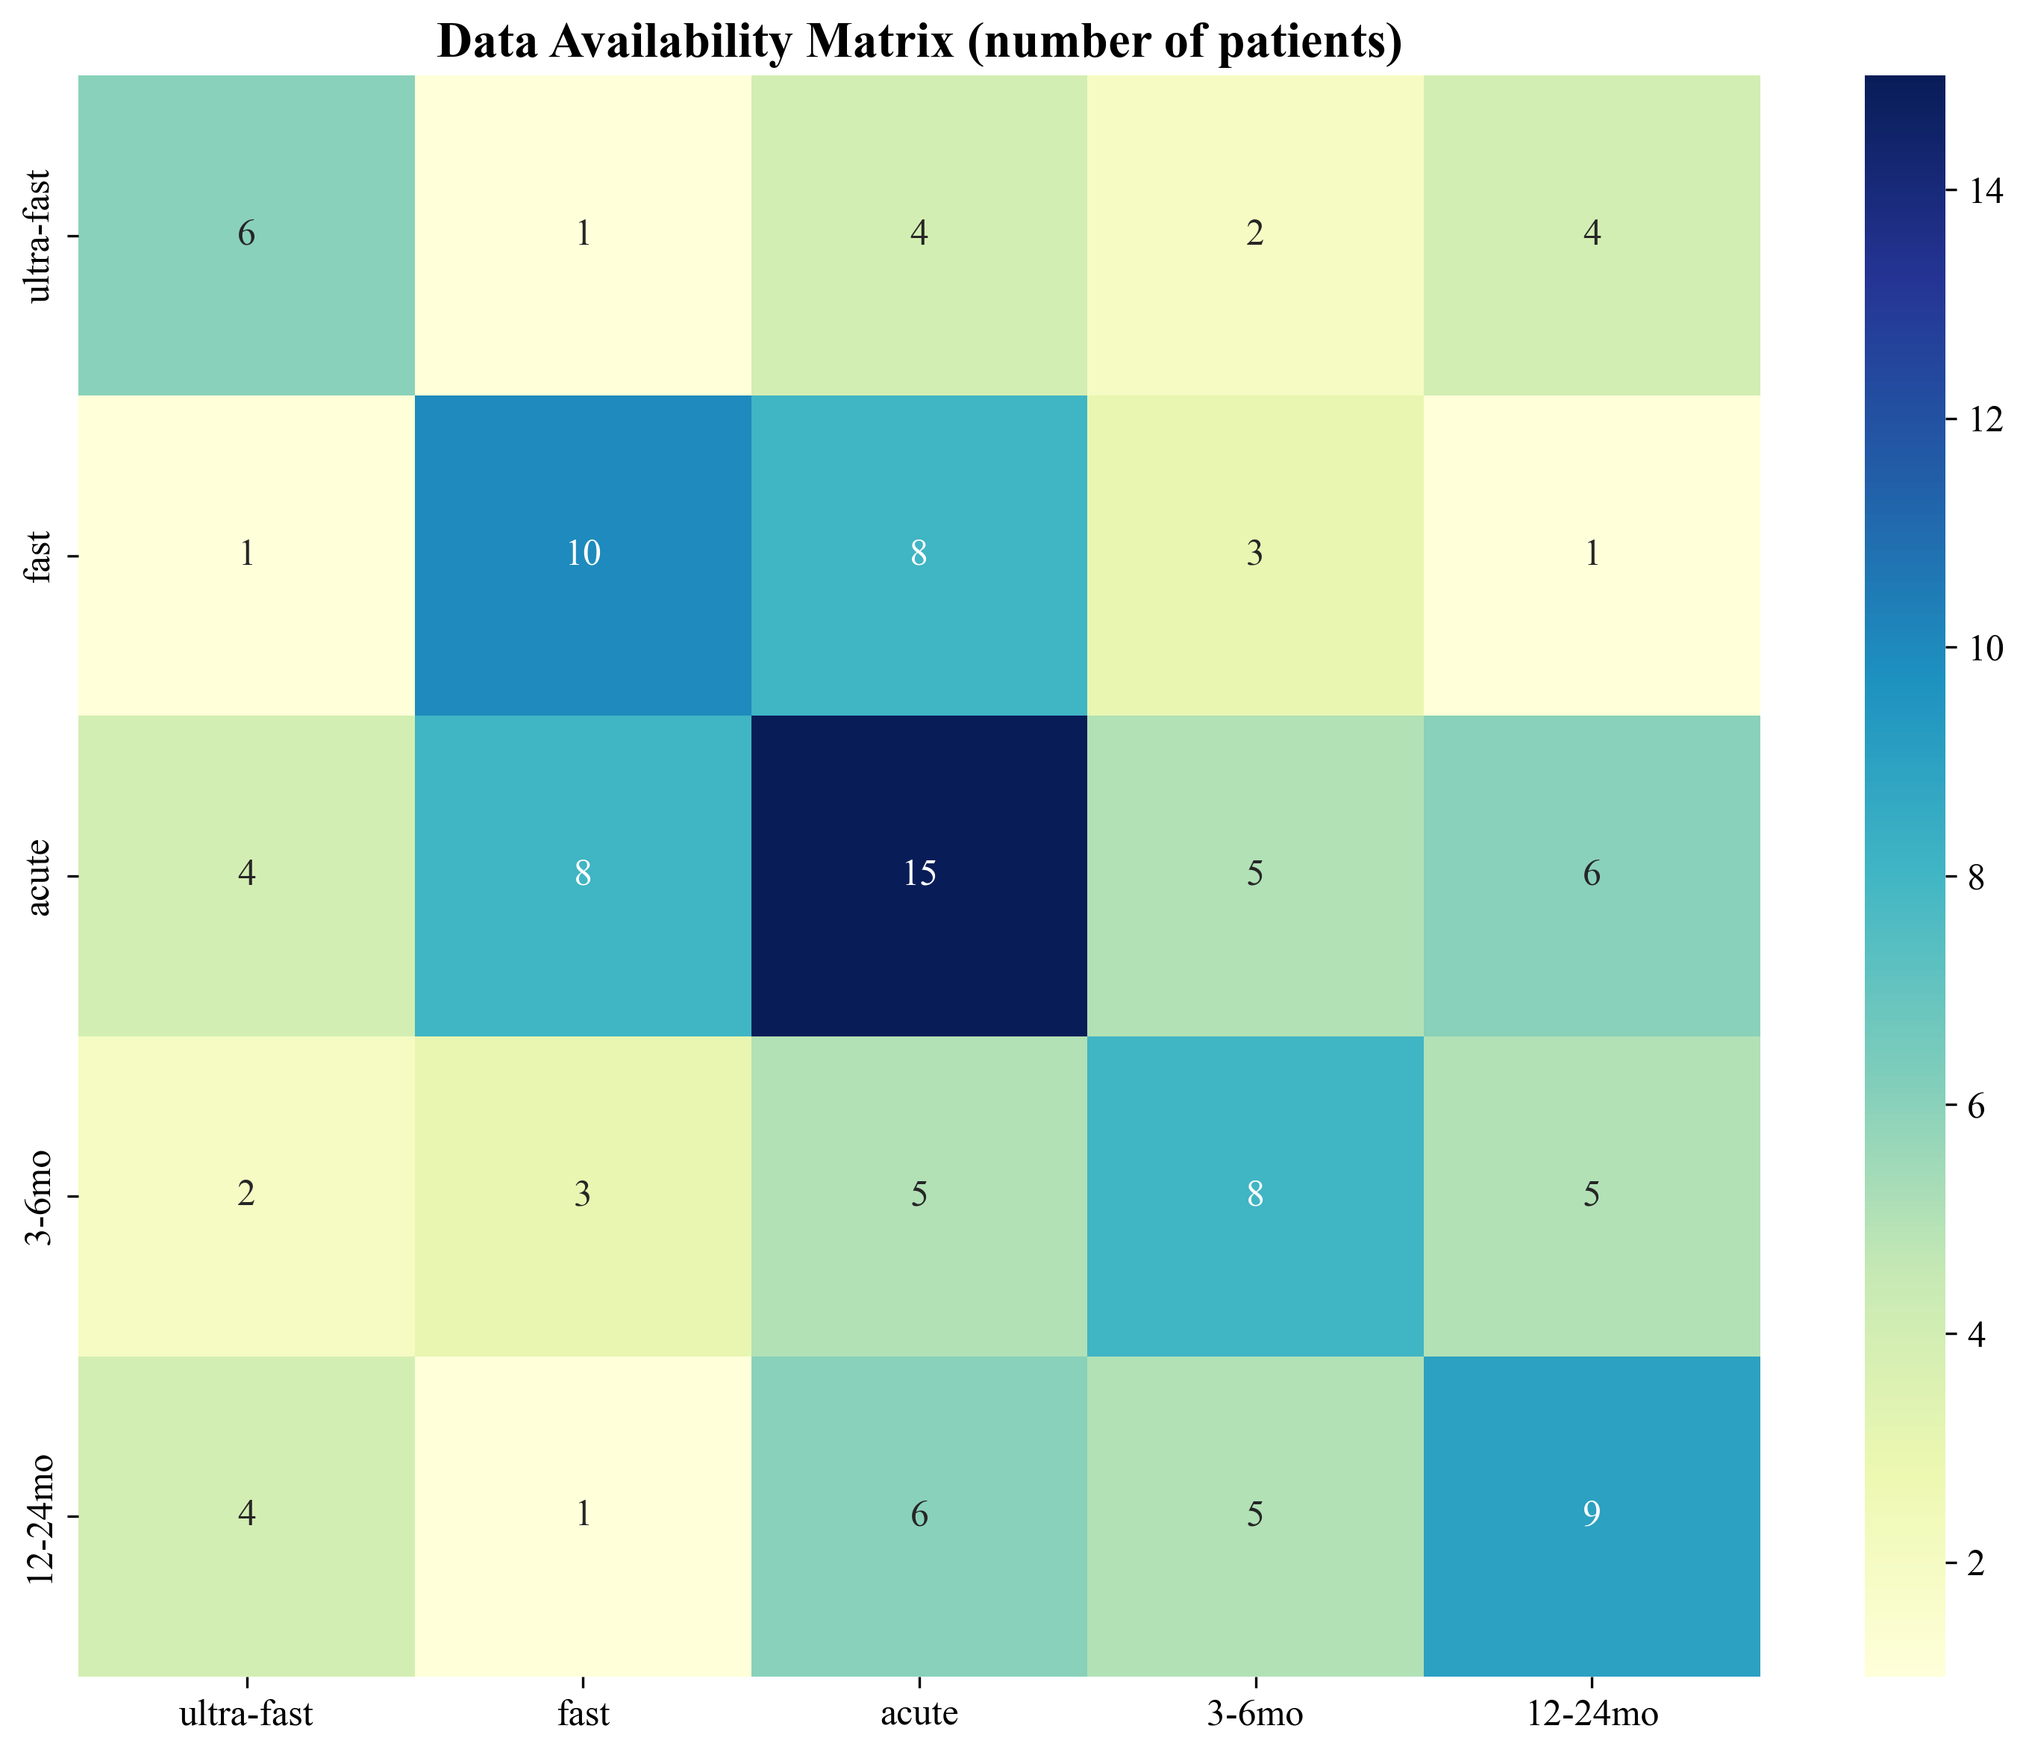
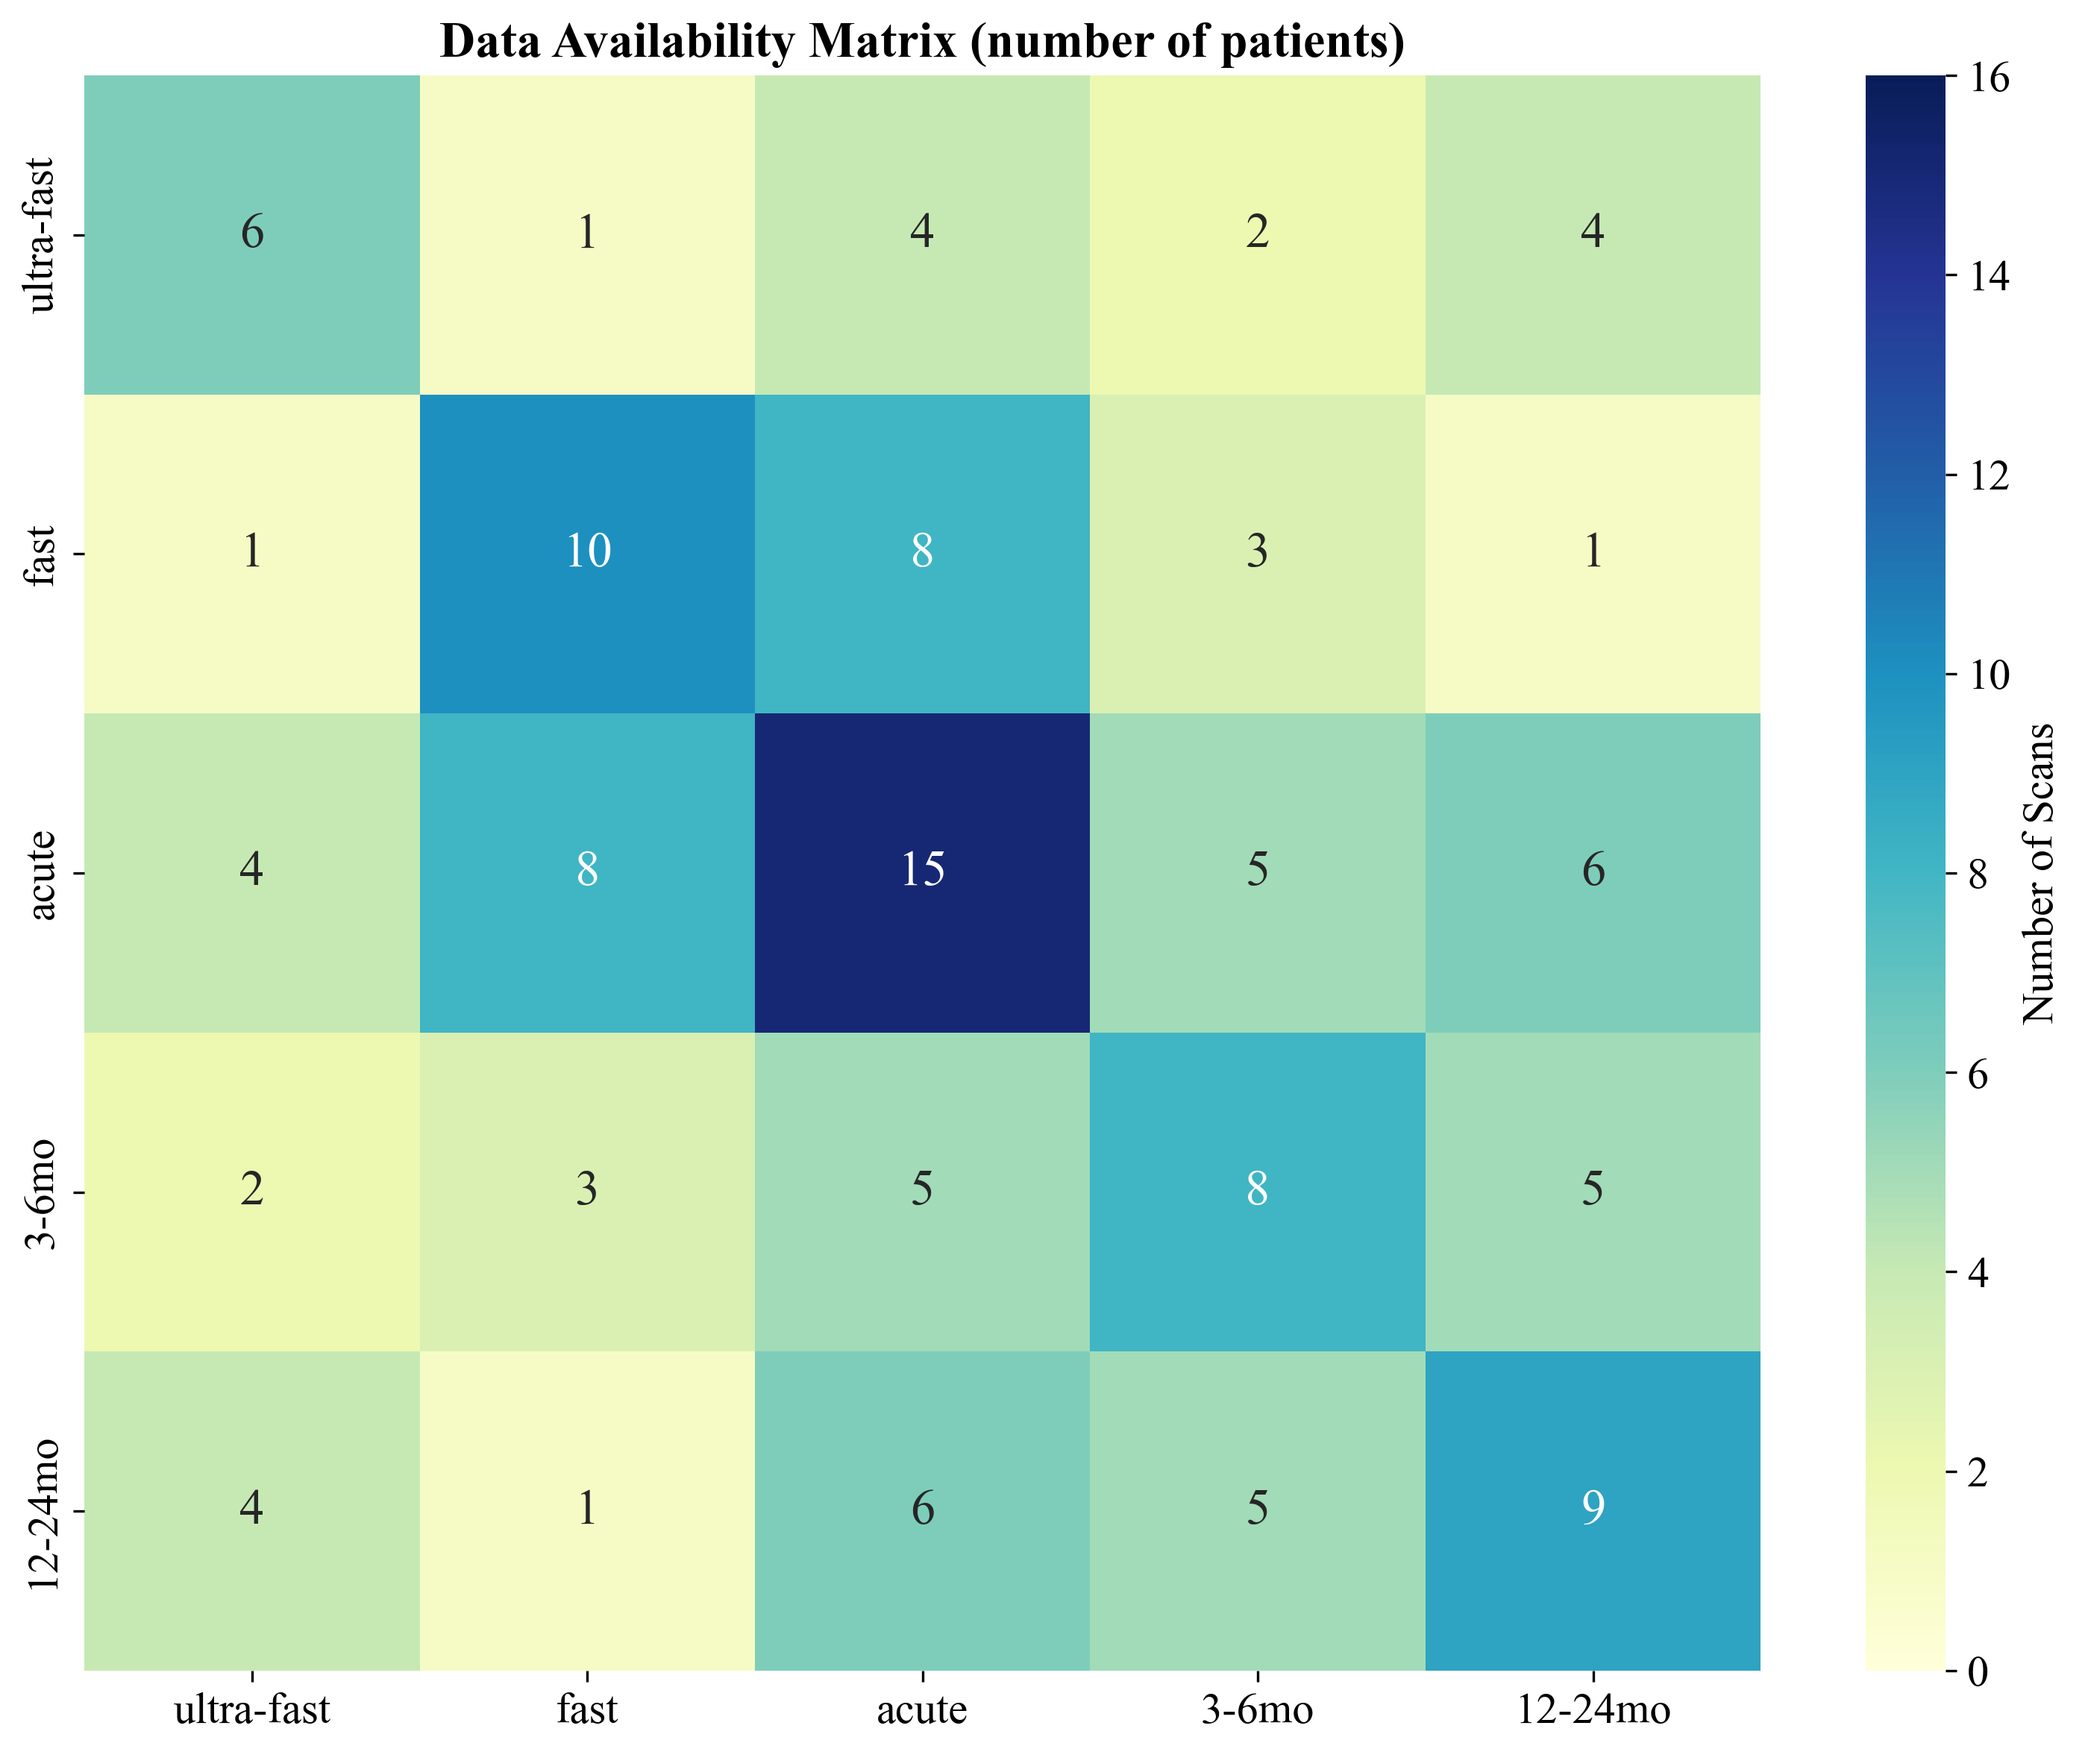
redo combi data availability

diff --git a/DTI_Processing_Scripts/dti_results_plotting_main.py b/DTI_Processing_Scripts/dti_results_plotting_main.py
@@ -3619,13 +3619,13 @@ if __name__ == '__main__':
 
 
     # Data availability matrix
-    matrix = data_availability_matrix(
-        data=wm_data_roi_567, 
-        timepoints=['ultra-fast', 'fast', 'acute', '3mo', '6mo', '12mo', '24mo'],
-        diff_column='fa_anterior_diff',  # or any other diff column
-        filename='fa_diff_data_availability.png'
-    )
-    sys.exit()
+    # matrix = data_availability_matrix(
+    #     data=wm_data_roi_567, 
+    #     timepoints=['ultra-fast', 'fast', 'acute', '3mo', '6mo', '12mo', '24mo'],
+    #     diff_column='fa_anterior_diff',  # or any other diff column
+    #     filename='fa_diff_data_availability.png'
+    # )
+    # sys.exit()
 
     # create_timepoint_boxplot_recategorised_dti(df=wm_data_roi_567, parameter='fa', timepoints=['ultra-fast', 'fast', 'acute', '3mo', '6mo', '12mo', '24mo'])
     # create_timepoint_boxplot_recategorised_dti(df=wm_data_roi_567, parameter='md', timepoints=['ultra-fast', 'fast', 'acute', '3mo', '6mo', '12mo', '24mo'])
@@ -3648,13 +3648,15 @@ if __name__ == '__main__':
     # print(f"Unique timepoints in combined wm data: {wm_data_roi_567_combi['timepoint'].unique()}")
     # print(wm_data_roi_567_combi)
 
-    # # Do new data availability matrix for combi data
-    # matrix_combi = data_availability_matrix(
-    #     data=wm_data_roi_567_combi, 
-    #     timepoints=['ultra-fast', 'fast', 'acute', '3-6mo', '12-24mo'],
-    #     diff_column='fa_anterior_diff',  # or any other diff column
-    #     filename='fa_diff_data_availability_combi.png'
-    # )
+    # Do new data availability matrix for combi data
+    matrix_combi = data_availability_matrix(
+        data=wm_data_roi_567_combi, 
+        timepoints=['ultra-fast', 'fast', 'acute', '3-6mo', '12-24mo'],
+        diff_column='fa_anterior_diff',  # or any other diff column
+        filename='fa_diff_data_availability_combi.png'
+    )
+
+    sys.exit()
 
     #####################################################
     # LINEAR MIXED EFFECTS MODEL WITH COMBI DATA
